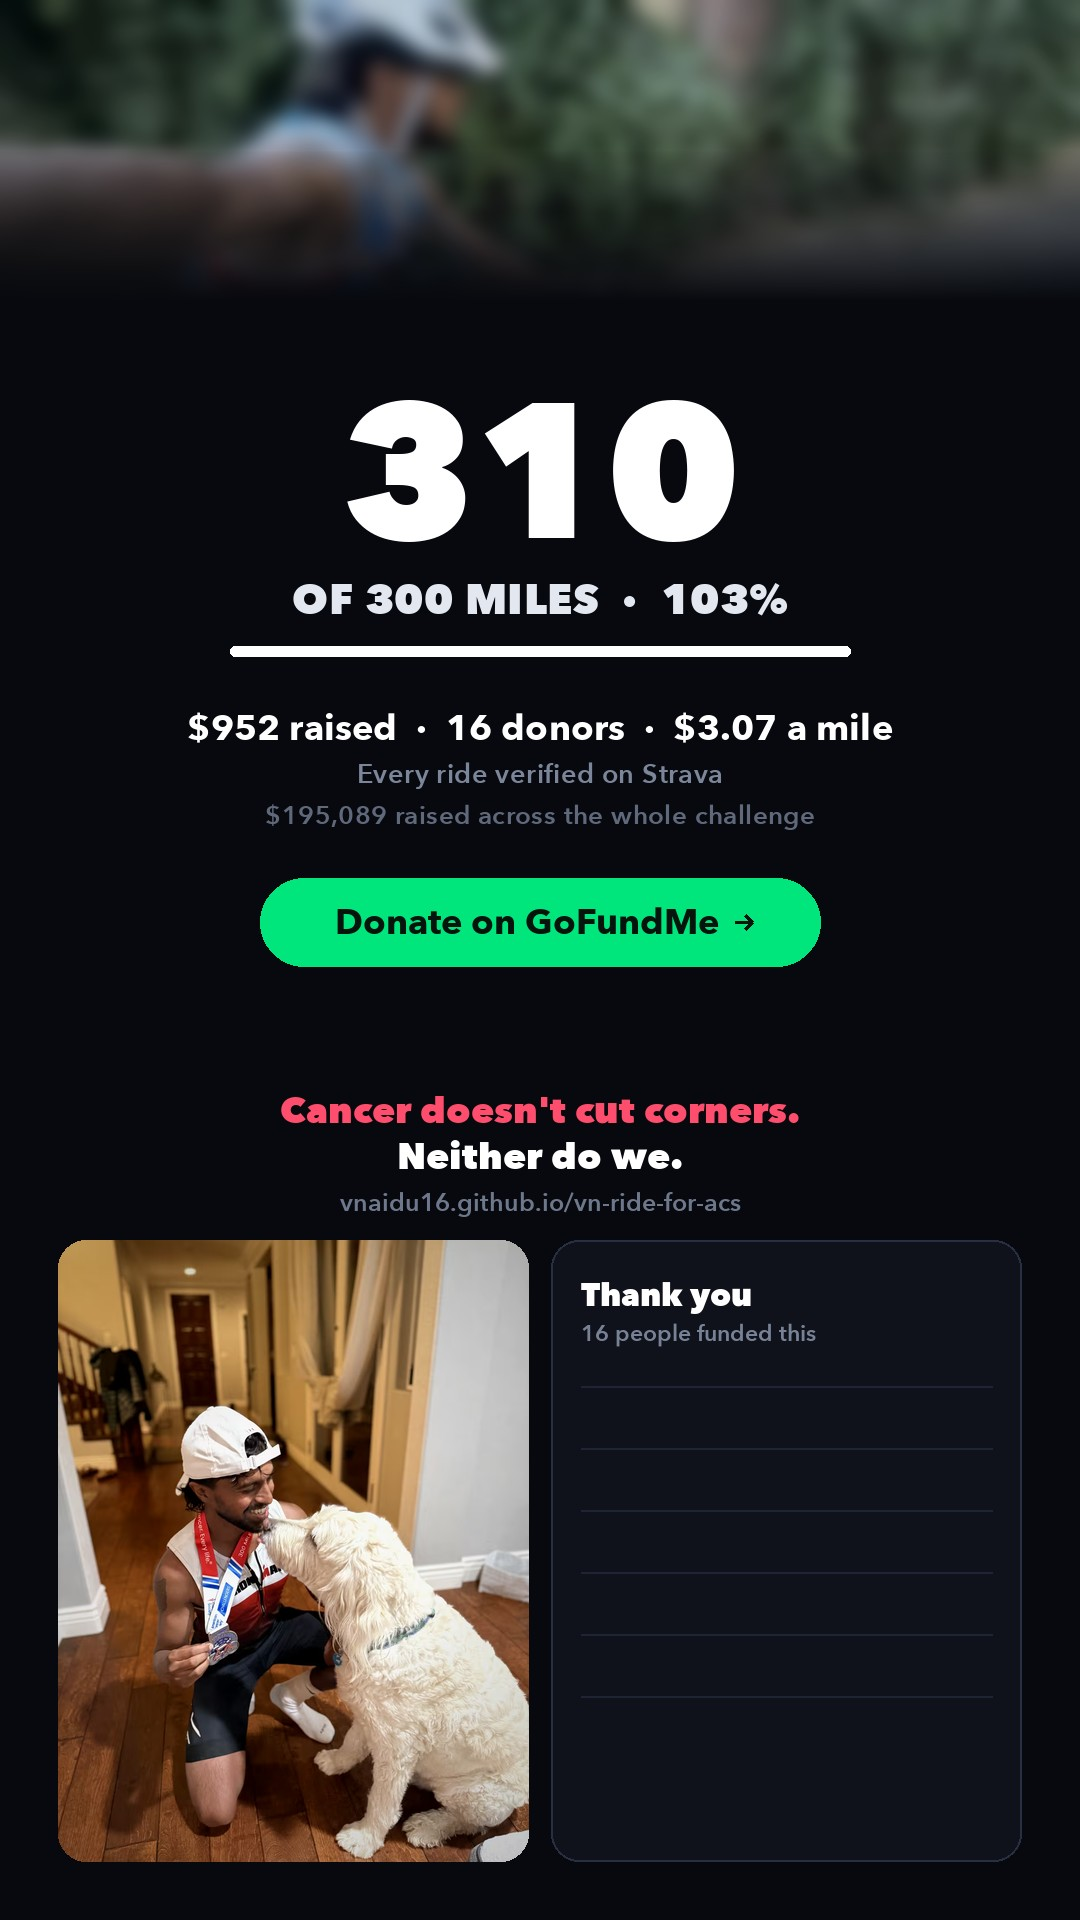
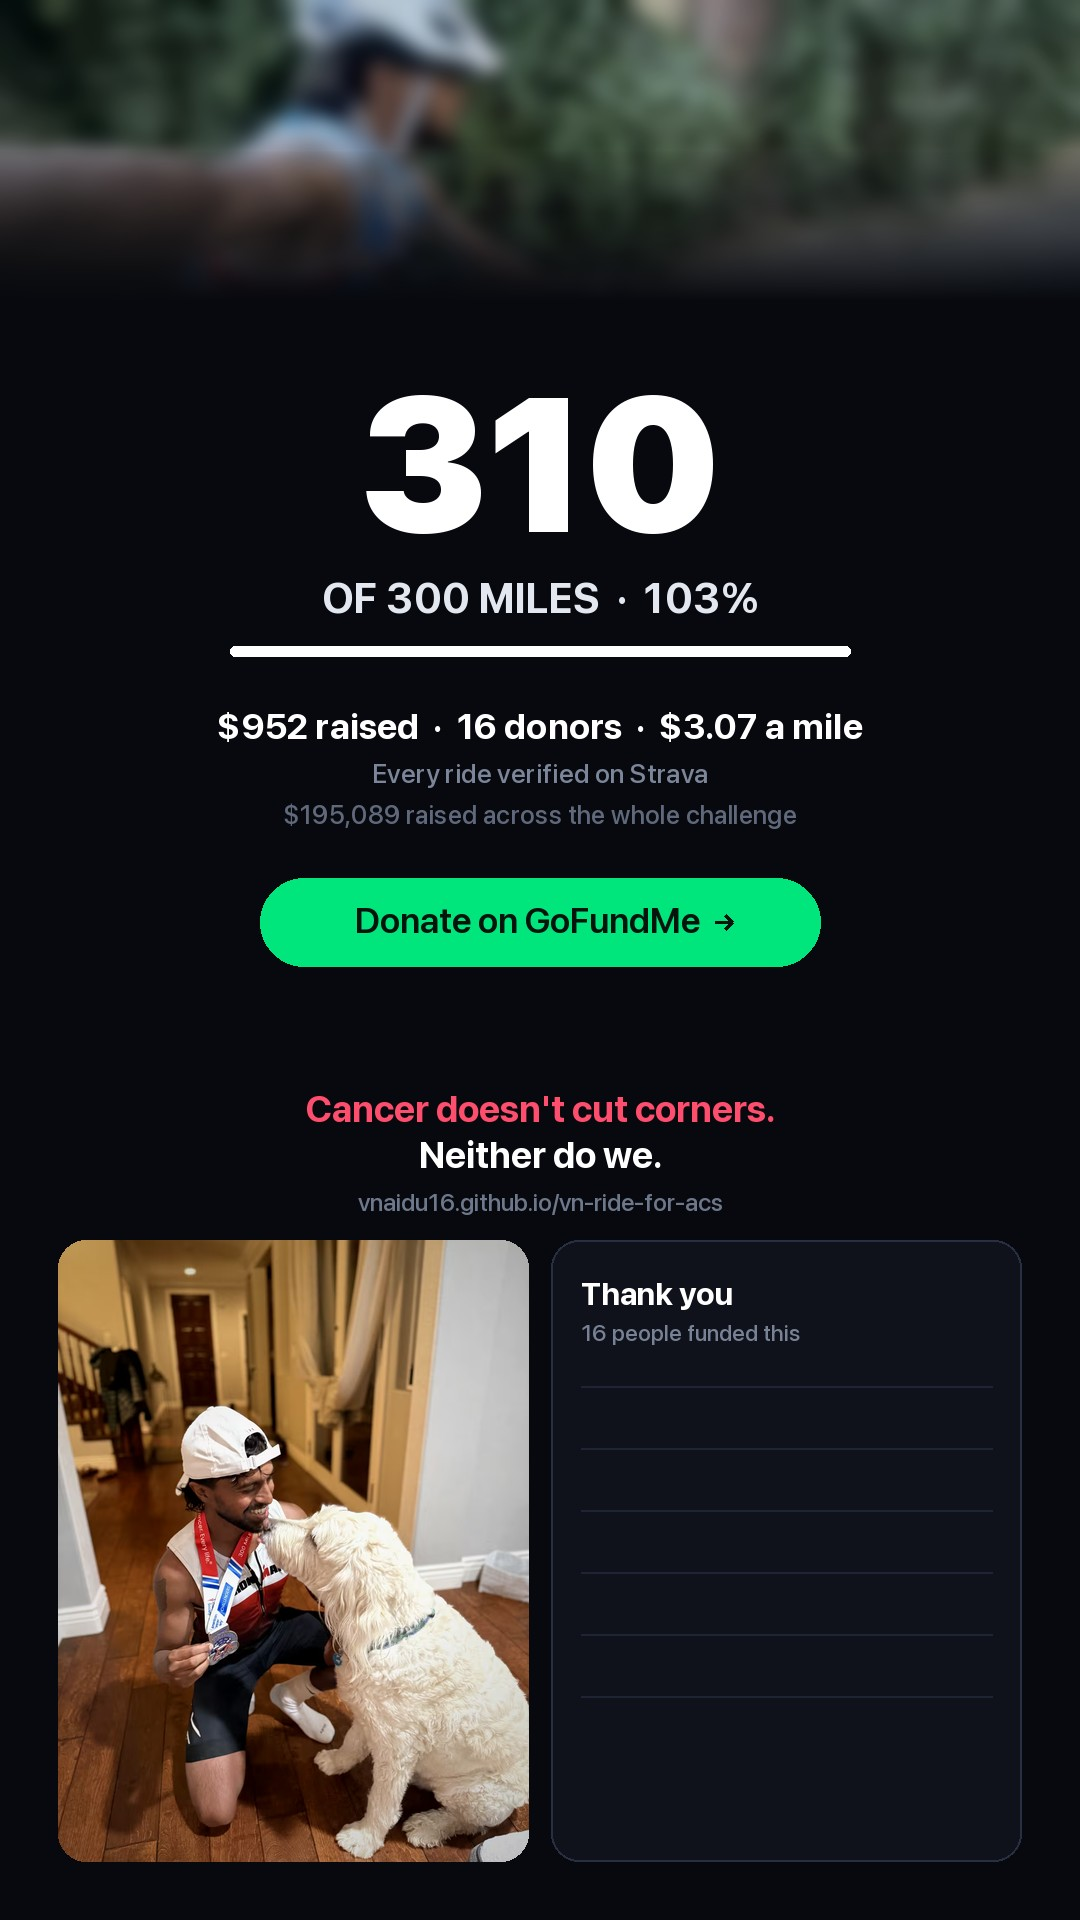
Set the story in SF Pro
Avenir read soft and geometric against the story this is meant to match. SF Pro
is the system face and almost certainly what that one was set in.

It is a variable font, so the weight is set per instance rather than picked out
of a family: Black for the number, Bold for the headings, Semibold on the
button, Medium for the quiet lines. That range is why it holds together at
190px and at 25px in the same frame.

It also carries an arrow glyph, so the drawn fallback is no longer needed there.

Claude-Session: https://claude.ai/code/session_01NH75BrgSUeWBYsvkeeFkNz

diff --git a/tools/make_cards.py b/tools/make_cards.py
@@ -40,6 +40,7 @@ FONTS = "/System/Library/Fonts/Supplemental/"
 F_BOLD = FONTS + "Arial Bold.ttf"
 AVENIR = "/System/Library/Fonts/Avenir Next.ttc"
 AV_HEAVY, AV_BOLD, AV_DEMI = 8, 0, 2
+SFNS = "/System/Library/Fonts/SFNS.ttf"   # SF Pro, the system face
 F_BLACK = FONTS + "Arial Black.ttf"
 F_ITAL = FONTS + "Arial Bold Italic.ttf"
 
@@ -57,8 +58,20 @@ def font(path, size, index=None):
 
 
 def av(size, weight=None):
-    """Avenir Next. Closer to the story that worked than Arial Black."""
+    """Avenir Next. Kept for the layouts that still use it."""
     return font(AVENIR, size, AV_HEAVY if weight is None else weight)
+
+
+def sf(size, weight="Bold"):
+    """SF Pro. It is a variable font, so the weight is set per instance rather
+    than picked from a family. Avenir read soft and geometric next to the story
+    this is meant to match; SF is the face that story was actually set in."""
+    try:
+        f = ImageFont.truetype(SFNS, size)
+        f.set_variation_by_name(weight)
+        return f
+    except Exception:
+        return font(AVENIR, size, AV_HEAVY)
 
 
 def pick(names):
@@ -396,10 +409,10 @@ def build_story(ride, medal, done, goal, rng, raised, money_goal, donors, allrid
     pct = done / goal
     num = str(int(round(done)))
     d = ImageDraw.Draw(base)
-    fn = av(190)
+    fn = sf(190, "Black")
     d.text((CX - d.textlength(num, font=fn) / 2, 348), num, font=fn, fill=(255, 255, 255))
     ctext(d, CX, 572, "OF %d MILES  \u00b7  %d%%" % (goal, round(pct * 100)),
-          av(42), (226, 231, 240), 0.5)
+          sf(42, "Bold"), (226, 231, 240), 0.5)
 
     # A plain rounded track, sized to the type above it, instead of a skewed
     # slash floating on its own.
@@ -413,20 +426,20 @@ def build_story(ride, medal, done, goal, rng, raised, money_goal, donors, allrid
 
     permile = ("$%.2f a mile" % (raised / done)) if done else ""
     ctext(d, CX, 704, "$%s raised  \u00b7  %d donors  \u00b7  %s"
-          % (format(raised, ","), donors, permile), av(36, AV_BOLD), (255, 255, 255), 0.2)
-    ctext(d, CX, 756, "Every ride verified on Strava", av(27, AV_DEMI), (124, 134, 154), 0.4)
+          % (format(raised, ","), donors, permile), sf(36, "Bold"), (255, 255, 255), 0.2)
+    ctext(d, CX, 756, "Every ride verified on Strava", sf(27, "Medium"), (124, 134, 154), 0.4)
     if allriders:
         ctext(d, CX, 798, "$%s raised across the whole challenge" % format(allriders, ","),
-              av(26, AV_DEMI), (96, 105, 124), 0.4)
+              sf(26, "Medium"), (96, 105, 124), 0.4)
 
-    base = pill(base, CX, 878, 560, 88, "Donate on GoFundMe", av(36, AV_BOLD),
+    base = pill(base, CX, 878, 560, 88, "Donate on GoFundMe", sf(36, "Semibold"),
                 (0, 229, 124), (6, 20, 13))
 
     # 978 to 1064 stays clear for the link sticker.
 
-    ctext(d, CX, 1086, "Cancer doesn't cut corners.", av(37), (255, 77, 109))
-    ctext(d, CX, 1132, "Neither do we.", av(37), (255, 255, 255))
-    ctext(d, CX, 1186, "vnaidu16.github.io/vn-ride-for-acs", av(25, AV_DEMI), (110, 120, 140))
+    ctext(d, CX, 1086, "Cancer doesn't cut corners.", sf(37, "Bold"), (255, 77, 109))
+    ctext(d, CX, 1132, "Neither do we.", sf(37, "Bold"), (255, 255, 255))
+    ctext(d, CX, 1186, "vnaidu16.github.io/vn-ride-for-acs", sf(25, "Medium"), (110, 120, 140))
 
     # Two cards at the foot. Half the width is almost exactly the finisher
     # photo's own aspect ratio, so it is barely cropped at all.
@@ -442,8 +455,8 @@ def build_story(ride, medal, done, goal, rng, raised, money_goal, donors, allrid
     card = Image.new("RGB", (CWd, CH), (15, 18, 27))
     cd = ImageDraw.Draw(card)
     cd.rounded_rectangle([0, 0, CWd - 1, CH - 1], radius=rad, outline=(40, 47, 66), width=2)
-    cd.text((30, 34), "Thank you", font=av(32), fill=(255, 255, 255))
-    cd.text((30, 78), "%d people funded this" % donors, font=av(23, AV_DEMI),
+    cd.text((30, 34), "Thank you", font=sf(32, "Bold"), fill=(255, 255, 255))
+    cd.text((30, 78), "%d people funded this" % donors, font=sf(23, "Medium"),
             fill=(120, 130, 150))
     # Faint rules so the space reads as a list waiting to be filled rather than
     # an empty box. V tags the donors over these.
